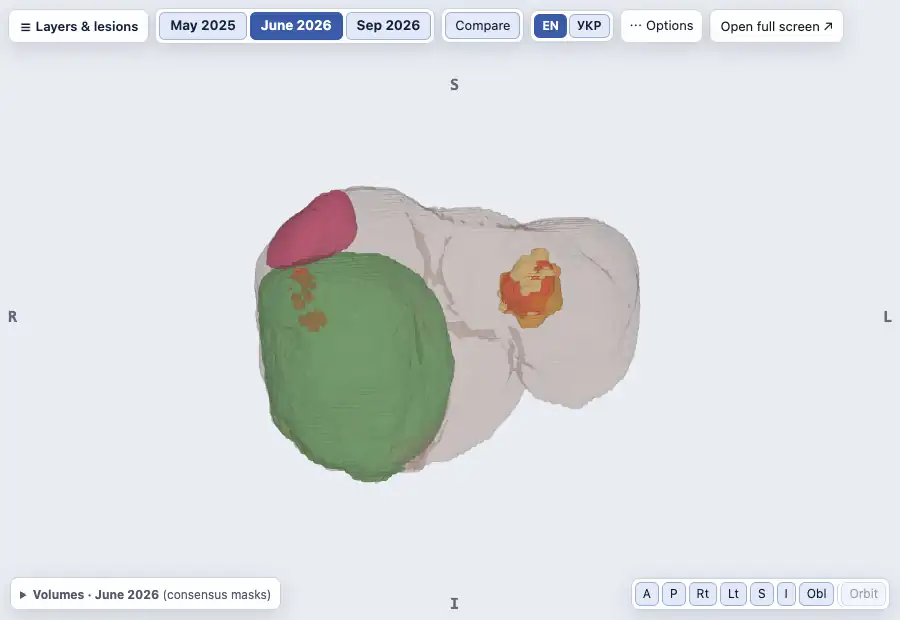
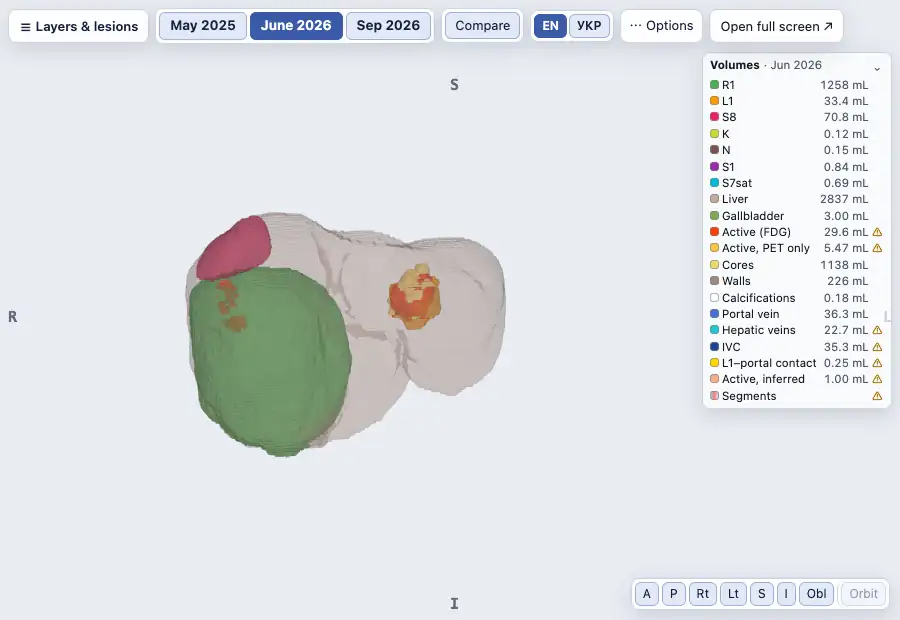
Liver 3D viewer: Volumes open by default as a compact column docked on the right
Short names (R1, L1, Liver, Active (FDG) ...), volume, a ⚠ dot for confidence notes (text in the tooltip),
semi-transparent, collapsible and remembered; closed by default on phones. The default camera framing leaves
room for it (no overlap with the liver at 1440x900, 1024x700 and the 900x620 embed). Embed posters refreshed.

Changed region(s): [[0.1867, 0.2758, 0.7156, 0.7968], [0.7778, 0.0919, 0.9956, 0.6435], [0.0311, 0.95, 0.3111, 1.0]]

diff --git a/liver3d/js/main.js b/liver3d/js/main.js
@@ -649,7 +649,7 @@ function computeBounds() {
 // ---------------------------------------------------------------- camera
 function fitDist(r) {
   const f = freeBand();
-  if (f.H > 0) r *= clamp(f.H / Math.max(120, f.bottom - f.top), 1, 2.5);
+  if (f.H > 0) r *= Math.max(clamp(f.H / Math.max(120, f.bottom - f.top), 1, 2.5), f.right ? clamp(f.W / Math.max(160, f.W - f.right), 1, 2) : 1);
   const vf = camera.fov * Math.PI / 180, hf = 2 * Math.atan(Math.tan(vf / 2) * camera.aspect);
   return r / Math.sin(Math.min(vf, hf) / 2) * 1.04;
 }
@@ -750,7 +750,7 @@ function pickAt(x, y) {
   const saved = objs.map(o => [o, o.visible, o.material]);
   const prevClear = renderer.getClearColor(new THREE.Color()), prevAlpha = renderer.getClearAlpha();
   let hit = null;
-  camera.setViewOffset(w, hgt, x, y + viewShift, 1, 1);
+  camera.setViewOffset(w, hgt, x + viewShiftX, y + viewShift, 1, 1);
   for (const pass of [0, 1]) {
     for (const [o, vis] of saved) {
       if (!vis) continue;
@@ -774,7 +774,7 @@ function pickAt(x, y) {
 }
 
 // keep the model centred in the part of the canvas that the claim bar does not cover
-let viewShift = 0;
+let viewShift = 0, viewShiftX = 0;
 function freeBand() {
   // the vertical band of the canvas not covered by the top bar (and registration line) or by the claim bar
   const sr = stage.getBoundingClientRect(), H = sr.height;
@@ -790,14 +790,17 @@ function freeBand() {
     else top = Math.max(top, r.bottom - sr.top);
   }
   top = Math.min(top, H * 0.45); bottom = Math.max(bottom, top + H * 0.3);
-  return { top, bottom, H };
+  // the docked Volumes column on the right
+  const W = sr.width; let right = 0;
+  const v = $('#vols'); if (v && !v.hidden && v.offsetParent !== null && v.querySelector('details[open]')) { const r = v.getBoundingClientRect(); if (r.width) right = Math.min(W * 0.4, sr.right - r.left + 6); }
+  return { top, bottom, H, W, right };
 }
 function applyViewShift() {
   const w = canvas.clientWidth, hgt = canvas.clientHeight;
-  let sh = 0;
-  if (w && hgt) { const f = freeBand(); sh = hgt / 2 - (f.top + f.bottom) / 2; }
-  viewShift = Math.round(sh);
-  if (viewShift) camera.setViewOffset(w, hgt, 0, viewShift, w, hgt); else camera.clearViewOffset();
+  let sh = 0, sx = 0;
+  if (w && hgt) { const f = freeBand(); sh = hgt / 2 - (f.top + f.bottom) / 2; sx = f.right / 2; }
+  viewShift = Math.round(sh); viewShiftX = Math.round(sx);
+  if (viewShift || viewShiftX) camera.setViewOffset(w, hgt, viewShiftX, viewShift, w, hgt); else camera.clearViewOffset();
   requestRender();
 }
 new ResizeObserver(() => applyViewShift()).observe($('#claimbar'));
@@ -1019,23 +1022,29 @@ function renderVolumeLegend(host) {
   for (const L of S.scene.layers || []) {
     const pd = L.per_date?.[shown];
     if (!(pd?.mesh || pd?.shown_as) || pd.volume_mL == null || /^seg\d$/.test(L.id)) continue;
-    rows.push({ sw: L.color, name: L.name || L.id, vol: pd.volume_mL, conf: pd.confidence });
+    rows.push({ sw: L.color, name: L.name || L.id, short: VOL_SHORT[L.id], vol: pd.volume_mL, conf: pd.confidence });
   }
   const segc = (S.scene.layers || []).find(L => /^seg\d$/.test(L.id) && L.per_date?.[shown]?.confidence)?.per_date[shown].confidence;
-  if (segc) rows.push({ sw: 'linear-gradient(90deg,#8dd3c7,#fb8072,#fccde5)', name: 'Couinaud segments', vol: null, conf: segc });
+  if (segc) rows.push({ sw: 'linear-gradient(90deg,#8dd3c7,#fb8072,#fccde5)', name: 'Couinaud segments', short: 'Segments', vol: null, conf: segc });
   if (!rows.length) return;
-  if (volLegendOpen === null) volLegendOpen = false;   // a small chip by default; one click opens the table
+  // a narrow column docked on the right edge of the canvas: open by default (closed on phones), state remembered
+  if (volLegendOpen === null) { let st = null; try { st = localStorage.getItem('liver3d-vols'); } catch (e) { } volLegendOpen = st ? st === '1' : !matchMedia('(max-width: 560px)').matches; }
   const src = S.scene.source === 'consensus' ? 'consensus' : (S.scene.source || '?');
+  const box = $('#vols'); box.innerHTML = ''; box.hidden = false;
   const det = h('details.vols', { open: volLegendOpen && !state.claim ? true : null },   // collapsed while a claim bar is shown
-    h('summary', null, h('b', null, `Volumes · ${dateLabel(shown)}`), h('span.muted', null, ` (${src} masks)`)),
-    h('table.vols', null, h('tbody', null, ...rows.map(r => h('tr', null,
+    h('summary', { title: `Volumes on ${dateLabel(shown)}, measured on the ${src} masks` }, h('b', null, 'Volumes'), h('span.muted', null, ' · ' + dateShort(shown))),
+    h('table.vols', null, h('tbody', null, ...rows.map(r => h('tr', { title: (r.title || r.full || r.name) + (r.conf ? ' — ' + tr(r.conf) : '') },
       h('td', null, h('span.sw', { style: { background: r.sw } })),
-      h('td.n', { title: r.title || r.name }, r.name),
+      h('td.n', null, r.short || r.name),
       h('td.v', null, r.vol != null ? fmtVol(r.vol) : ''),
-      h('td.c', { title: r.conf || '' }, r.conf ? '⚠ ' + shortConf(r.conf) : ''))))));
-  det.addEventListener('toggle', () => { if (!state.claim) volLegendOpen = det.open; });
-  host.append(det);
+      h('td.c', null, r.conf ? h('span.cdot', { 'aria-label': 'confidence note: ' + r.conf }, '⚠') : ''))))));
+  det.addEventListener('toggle', () => { if (!state.claim) { volLegendOpen = det.open; try { localStorage.setItem('liver3d-vols', det.open ? '1' : '0'); } catch (e) { } } applyViewShift(); });
+  box.append(det);
+  applyViewShift();
 }
+const VOL_SHORT = { liver: 'Liver', gallbladder: 'Gallbladder', active: 'Active (FDG)', active_pet_only: 'Active, PET only', active_inferred: 'Active, inferred',
+  cores: 'Cores', walls: 'Walls', nodules: 'Nodules', calcifications: 'Calcifications', portal: 'Portal vein', hepatic_veins: 'Hepatic veins', ivc: 'IVC',
+  contact_left_portal: 'L1–portal contact', hepatic_artery: 'Hepatic artery', bile_ducts: 'Bile ducts', uncertain: 'Uncertain band' };
 
 // ---------------------------------------------------------------- UI: layers panel
 function setCtl(id, patch, opts = {}) {

diff --git a/liver3d/js/i18n_uk.js b/liver3d/js/i18n_uk.js
@@ -105,7 +105,9 @@ export const UK = {
   // dates and verdicts
   'May 2025': 'травень 2025', 'June 2026': 'червень 2026', 'Sep 2026': 'вересень 2026', 'Jun 2026': 'черв. 2026', 'Sept': 'вер.',
   'agrees': 'збігається', 'model larger': 'модель більша', 'model smaller': 'модель менша',
-  'Loading meshes': 'Завантаження поверхонь', 'Layers & lesions': 'Шари й утворення', 'Options': 'Параметри', 'More controls': 'Інші елементи керування', 'High detail': 'Висока деталізація', 'Smooth orbit (lower detail while moving)': 'Плавне обертання (менше деталей під час руху)', 'Loading full detail…': 'Завантаження повної деталізації…',
+  'Loading meshes': 'Завантаження поверхонь', 'Active (FDG)': 'Активна (FDG)', 'Active, PET only': 'Активна, лише ПЕТ', 'Active, inferred': 'Активна, припущена', 'Cores': 'Вміст', 'Walls': 'Стінки',
+  'Nodules': 'Вузлики', 'Calcifications': 'Кальцифікати', 'Portal vein': 'Ворітна вена', 'Hepatic veins': 'Печінкові вени', 'L1–portal contact': 'Контакт L1 — ворітна',
+  'Segments': 'Сегменти', 'Gallbladder': 'Жовчний міхур', 'Hepatic artery': 'Печінкова артерія', 'Bile ducts': 'Жовчні протоки', 'Uncertain band': 'Невизначена смуга', 'Liver': 'Печінка', 'Layers & lesions': 'Шари й утворення', 'Options': 'Параметри', 'More controls': 'Інші елементи керування', 'High detail': 'Висока деталізація', 'Smooth orbit (lower detail while moving)': 'Плавне обертання (менше деталей під час руху)', 'Loading full detail…': 'Завантаження повної деталізації…',
   'While you drag the model, draw light preview meshes and return to full detail when you let go. Off unless this device renders the full scene below about 30 frames per second.': 'Під час обертання показувати полегшені поверхні й повертати повну деталізацію, щойно ви відпустите. Вимкнено, якщо пристрій малює повну сцену швидше ніж ~30 кадрів/с.',
   'Cut / slice…': 'Розріз / зріз…', 'Close': 'Закрити', 'Close the panel': 'Закрити панель', 'Open full screen ↗': 'На весь екран ↗', 'More layers': 'Інші шари',
   'Active tissue (PET)': 'Активна тканина (ПЕТ)', 'Cores / walls': 'Вміст / стінки', 'Layers, lesions, reports, cut and about': 'Шари, утворення, висновки, розріз і опис',
@@ -182,6 +184,9 @@ export const UK_PATTERNS = [
   [/^(.+) \(([A-Z]\w*)\)$/, (m, tr) => { const t = tr(m[1]); return t === m[1] ? null : `${t} (${m[2]})`; }],
   [/^Loading (.+)…$/, (m, tr) => `Завантаження: ${tr(m[1])}…`],
   [/^Loading (.+)… (\d+ %|\d+\/\d+)$/, (m, tr) => `${tr('Loading ' + m[1] + '…')} ${m[2]}`],
+  [/^Volumes on (.+), measured on the (\w+) masks$/, m => `Об'єми на ${d(m[1])}, виміряні на масках (${m[2] === 'consensus' ? 'консенсус' : m[2]})`],
+  [/^confidence note: (.+)$/, (m, tr) => `примітка про впевненість: ${tr(m[1])}`],
+  [/^(.+?) — (.+)$/, (m, tr) => { const a = tr(m[1]), b = tr(m[2]); return a === m[1] && b === m[2] ? null : `${a} — ${b}`; }],
   [/^rank (\d)$/, m => `ранг ${m[1]}`],
   [/^confidence: (.+)$/, (m, tr) => `впевненість: ${tr(m[1])}`],
   [/^registered from (.+), not seen on this CT$/, m => `перенесено з ${d(m[1])}, на цій КТ не видно`],

diff --git a/liver3d/css/viewer.css b/liver3d/css/viewer.css
@@ -392,3 +392,19 @@ details.more-layers>summary{cursor:pointer;color:var(--muted);margin:6px 0}
 @media (max-width: 1180px){ .regghost .lbl-long{display:none} .regghost .lbl-short{display:inline} .reg .reg-label{display:none} }
 .popover.menu .regghost .lbl-long{display:inline}
 .popover.menu .regghost .lbl-short{display:none}
+/* Volumes: a narrow column docked on the right edge of the canvas (open by default; the camera framing leaves room for it) */
+#vols{position:absolute;right:8px;top:calc(var(--topbar-h,48px) + 2px);width:max-content;max-width:190px;max-height:calc(100% - var(--topbar-h,48px) - 64px);overflow:auto;
+  background:color-mix(in srgb,var(--panel) 78%,transparent);border:1px solid var(--border);border-radius:var(--radius);padding:4px 7px;font-size:11.5px;z-index:3;box-shadow:var(--shadow)}
+#vols summary{cursor:pointer;list-style:none;display:flex;gap:4px;align-items:baseline;white-space:nowrap}
+#vols summary::-webkit-details-marker{display:none}
+#vols summary::after{content:"›";margin-left:auto;padding-left:8px;color:var(--muted);transition:transform .15s}
+#vols details[open] summary::after{transform:rotate(90deg)}
+#vols table.vols{border-collapse:collapse;margin-top:3px}
+#vols table.vols td{padding:1px 3px 1px 0;vertical-align:middle;line-height:1.25}
+#vols td.n{white-space:nowrap;max-width:112px;overflow:hidden;text-overflow:ellipsis}
+#vols td.v{white-space:nowrap;text-align:right;font-variant-numeric:tabular-nums;color:var(--muted)}
+#vols td.c{width:12px;color:var(--warn);cursor:help;text-align:center}
+#vols .sw{width:9px;height:9px}
+#vols tr{cursor:default}
+body.has-claim #vols{display:none}
+@media (max-width: 820px){ #vols{top:calc(var(--topbar-h,90px) + 2px);max-height:calc(100% - var(--topbar-h,90px) - 60px)} }

diff --git a/liver3d/index.html b/liver3d/index.html
@@ -108,6 +108,7 @@
     <div id="orient" aria-hidden="true"><span class="o-l"></span><span class="o-r"></span><span class="o-t"></span><span class="o-b"></span></div>
     <div id="labels" aria-hidden="true"></div>
     <div id="legend" aria-live="polite"></div>
+    <div id="vols" class="small" hidden></div>
     <div id="claimbar" hidden role="region" aria-label="Report claim on the model"></div>
     <div id="tooltip" role="tooltip" hidden></div>
     <div id="toast" role="status" aria-live="polite" hidden></div>

diff --git a/liver3d/data/BUILD_NOTES.md b/liver3d/data/BUILD_NOTES.md
@@ -311,3 +311,5 @@ Per-pixel blink counts are dominated by edge aliasing of thin vessels and did no
 toolbar. Embed (`?embed=1`): dates, Compare, EN/УКР, Options (alignment, registration check box, glossary, growth map, cut, screenshot,
 link, reset), 'Open full screen'; the panel is an overlay drawer with a short layer list (Liver, R1, L1, S8, Active tissue (PET),
 Cores / walls) and 'More layers'; default layers liver + R1 + L1 + S8 + FDG-active tissue.
+
+**Volumes column (2026-10-11).** Open by default (closed on phones; state remembered), docked on the right edge of the canvas, short names (R1, L1, Liver, Active (FDG) ...; full name and confidence text in the tooltip, ⚠ marks a confidence note). The default camera framing leaves room for it: at 1440x900, 1024x700 and the 900x620 embed the liver box does not overlap it.
